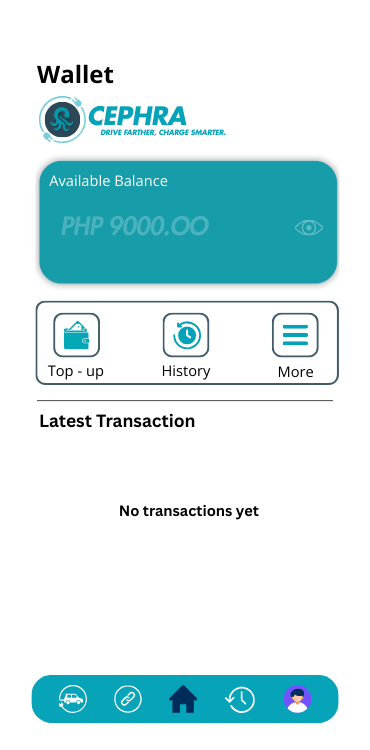
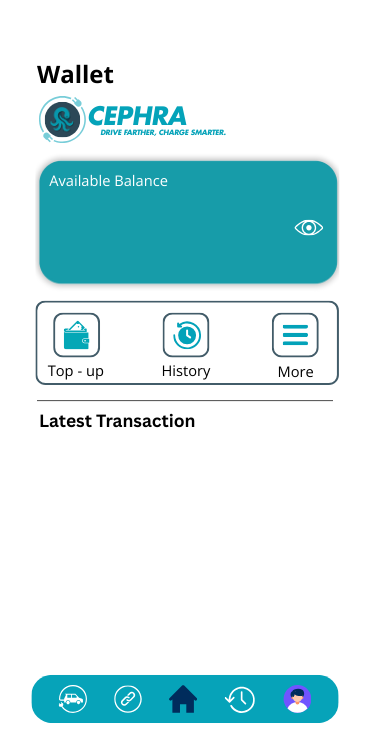
"Design"

Changed region(s): [[0.1486, 0.276, 0.5649, 0.3373], [0.327, 0.6747, 0.7135, 0.7053], [0.8027, 0.276, 0.8622, 0.3373]]

diff --git a/src/main/java/cephra/Phone/TopUppanel.java b/src/main/java/cephra/Phone/TopUppanel.java
@@ -1,6 +1,7 @@
 
 package cephra.Phone;
 
+import java.awt.Color;
 import javax.swing.*;
 import java.awt.event.ActionEvent;
 import java.awt.event.ActionListener;
@@ -8,7 +9,7 @@ import java.awt.event.ActionListener;
 public class TopUppanel extends javax.swing.JPanel {
 
     // Quick transaction amounts - updated to match the button values
-    private static final double[] QUICK_AMOUNTS = {500.0, 1000.0, 2500.0, 5000.0, 10000.0, 20000.0};
+    private static final double[] QUICK_AMOUNTS = {500.0, 1000.0, 1500.0, 2000.0, 3000.0, 5000.0};
 
     public TopUppanel() {
         initComponents();
@@ -17,6 +18,9 @@ public class TopUppanel extends javax.swing.JPanel {
         setupQuickAmountButtons();
         loadCurrentBalance();
         initializeCustomAmount();
+        
+        Customamount.setOpaque(false);
+        Customamount.setBackground(new Color(0, 0, 0, 0));  
     }
 
     // <editor-fold defaultstate="collapsed" desc="Generated Code">//GEN-BEGIN:initComponents
@@ -38,52 +42,73 @@ public class TopUppanel extends javax.swing.JPanel {
         jRadioButton3 = new javax.swing.JRadioButton();
         jRadioButton4 = new javax.swing.JRadioButton();
         bck = new javax.swing.JButton();
+        morePayMethod = new javax.swing.JButton();
+        topUpIcon = new javax.swing.JLabel();
 
         setLayout(null);
 
         jPanel1.setBackground(new java.awt.Color(255, 255, 255));
         jPanel1.setLayout(null);
 
+        Currentbalance.setFont(new java.awt.Font("Segoe UI Semibold", 1, 40)); // NOI18N
+        Currentbalance.setForeground(new java.awt.Color(255, 255, 255));
         Currentbalance.setText("xxxxxxx");
         jPanel1.add(Currentbalance);
-        Currentbalance.setBounds(120, 100, 70, 30);
+        Currentbalance.setBounds(80, 145, 240, 60);
 
-        A.setText("500");
+        A.setBorderPainted(false);
+        A.setContentAreaFilled(false);
         jPanel1.add(A);
-        A.setBounds(40, 190, 72, 23);
+        A.setBounds(40, 230, 75, 30);
 
-        B.setText("1000");
+        B.setBorderPainted(false);
+        B.setContentAreaFilled(false);
+        B.addActionListener(new java.awt.event.ActionListener() {
+            public void actionPerformed(java.awt.event.ActionEvent evt) {
+                BActionPerformed(evt);
+            }
+        });
         jPanel1.add(B);
-        B.setBounds(150, 190, 72, 23);
+        B.setBounds(150, 230, 75, 30);
 
-        C.setText("2500");
+        C.setBorderPainted(false);
+        C.setContentAreaFilled(false);
         jPanel1.add(C);
-        C.setBounds(260, 190, 72, 23);
+        C.setBounds(260, 230, 75, 30);
 
-        D.setText("5000");
+        D.setBorderPainted(false);
+        D.setContentAreaFilled(false);
         jPanel1.add(D);
-        D.setBounds(40, 260, 72, 23);
+        D.setBounds(40, 290, 75, 30);
 
-        E.setText("10000");
+        E.setBorderPainted(false);
+        E.setContentAreaFilled(false);
         jPanel1.add(E);
-        E.setBounds(150, 260, 72, 23);
+        E.setBounds(150, 290, 75, 30);
 
-        F.setText("20000");
+        F.setBorderPainted(false);
+        F.setContentAreaFilled(false);
         jPanel1.add(F);
-        F.setBounds(260, 260, 75, 23);
+        F.setBounds(260, 290, 75, 30);
 
-        Proceed.setText("Procceed");
+        Proceed.setBorderPainted(false);
+        Proceed.setContentAreaFilled(false);
         Proceed.addActionListener(new java.awt.event.ActionListener() {
             public void actionPerformed(java.awt.event.ActionEvent evt) {
                 ProceedActionPerformed(evt);
             }
         });
         jPanel1.add(Proceed);
-        Proceed.setBounds(80, 500, 190, 70);
+        Proceed.setBounds(20, 600, 330, 30);
 
-        Customamount.setText("xxxxxx");
+        Customamount.setBorder(null);
+        Customamount.addKeyListener(new java.awt.event.KeyAdapter() {
+            public void keyTyped(java.awt.event.KeyEvent evt) {
+                CustomamountKeyTyped(evt);
+            }
+        });
         jPanel1.add(Customamount);
-        Customamount.setBounds(110, 300, 130, 22);
+        Customamount.setBounds(70, 356, 255, 30);
 
         buttonGroup1.add(jRadioButton1);
         jRadioButton1.setText("Earnest Bank");
@@ -93,31 +118,45 @@ public class TopUppanel extends javax.swing.JPanel {
             }
         });
         jPanel1.add(jRadioButton1);
-        jRadioButton1.setBounds(140, 360, 90, 21);
+        jRadioButton1.setBounds(70, 390, 90, 21);
 
         buttonGroup1.add(jRadioButton2);
         jRadioButton2.setText("Glangs");
         jPanel1.add(jRadioButton2);
-        jRadioButton2.setBounds(140, 380, 90, 21);
+        jRadioButton2.setBounds(70, 430, 90, 21);
 
         buttonGroup1.add(jRadioButton3);
         jRadioButton3.setText("Exness");
         jPanel1.add(jRadioButton3);
-        jRadioButton3.setBounds(140, 420, 120, 21);
+        jRadioButton3.setBounds(70, 410, 120, 21);
 
         buttonGroup1.add(jRadioButton4);
         jRadioButton4.setText("Kalapati");
+        jRadioButton4.addActionListener(new java.awt.event.ActionListener() {
+            public void actionPerformed(java.awt.event.ActionEvent evt) {
+                jRadioButton4ActionPerformed(evt);
+            }
+        });
         jPanel1.add(jRadioButton4);
-        jRadioButton4.setBounds(140, 400, 100, 21);
+        jRadioButton4.setBounds(70, 450, 100, 21);
 
-        bck.setText("Back");
+        bck.setBorderPainted(false);
+        bck.setContentAreaFilled(false);
         bck.addActionListener(new java.awt.event.ActionListener() {
             public void actionPerformed(java.awt.event.ActionEvent evt) {
                 bckActionPerformed(evt);
             }
         });
         jPanel1.add(bck);
-        bck.setBounds(30, 40, 72, 23);
+        bck.setBounds(20, 33, 72, 30);
+
+        morePayMethod.setFont(new java.awt.Font("Segoe UI", 1, 24)); // NOI18N
+        jPanel1.add(morePayMethod);
+        morePayMethod.setBounds(290, 554, 40, 30);
+
+        topUpIcon.setIcon(new javax.swing.ImageIcon(getClass().getResource("/cephra/Cephra Images/topUpIcon.png"))); // NOI18N
+        jPanel1.add(topUpIcon);
+        topUpIcon.setBounds(0, 0, 360, 720);
 
         add(jPanel1);
         jPanel1.setBounds(0, 0, 360, 720);
@@ -147,6 +186,22 @@ public class TopUppanel extends javax.swing.JPanel {
             }
         });
     }//GEN-LAST:event_bckActionPerformed
+
+    private void jRadioButton4ActionPerformed(java.awt.event.ActionEvent evt) {//GEN-FIRST:event_jRadioButton4ActionPerformed
+        // TODO add your handling code here:
+    }//GEN-LAST:event_jRadioButton4ActionPerformed
+
+    private void BActionPerformed(java.awt.event.ActionEvent evt) {//GEN-FIRST:event_BActionPerformed
+        // TODO add your handling code here:
+    }//GEN-LAST:event_BActionPerformed
+
+    private void CustomamountKeyTyped(java.awt.event.KeyEvent evt) {//GEN-FIRST:event_CustomamountKeyTyped
+        char c = evt.getKeyChar();
+            if (!Character.isDigit(c) && c != '\b') {
+            java.awt.Toolkit.getDefaultToolkit().beep();
+            evt.consume(); // Ignore non-digit input
+}
+    }//GEN-LAST:event_CustomamountKeyTyped
 
     /**
      * Sets up the quick amount buttons with action listeners
@@ -371,5 +426,7 @@ public class TopUppanel extends javax.swing.JPanel {
     private javax.swing.JRadioButton jRadioButton2;
     private javax.swing.JRadioButton jRadioButton3;
     private javax.swing.JRadioButton jRadioButton4;
+    private javax.swing.JButton morePayMethod;
+    private javax.swing.JLabel topUpIcon;
     // End of variables declaration//GEN-END:variables
 }

diff --git a/src/main/java/cephra/Phone/Wallet.java b/src/main/java/cephra/Phone/Wallet.java
@@ -98,20 +98,25 @@ public class Wallet extends javax.swing.JPanel {
         add(charge);
         charge.setBounds(30, 680, 50, 40);
 
-        Balancetxt.setFont(new java.awt.Font("Segoe UI", 0, 18)); // NOI18N
+        Balancetxt.setFont(new java.awt.Font("Segoe UI Semibold", 1, 40)); // NOI18N
+        Balancetxt.setForeground(new java.awt.Color(255, 255, 255));
         Balancetxt.setText("1000.00");
         add(Balancetxt);
-        Balancetxt.setBounds(100, 200, 100, 40);
+        Balancetxt.setBounds(80, 200, 200, 60);
 
+        HideBalance.setBorderPainted(false);
+        HideBalance.setContentAreaFilled(false);
         HideBalance.addActionListener(new java.awt.event.ActionListener() {
             public void actionPerformed(java.awt.event.ActionEvent evt) {
                 HideBalanceActionPerformed(evt);
             }
         });
         add(HideBalance);
-        HideBalance.setBounds(270, 210, 70, 60);
+        HideBalance.setBounds(270, 190, 70, 60);
+
+        Latestranscat.setOpaque(false);
         add(Latestranscat);
-        Latestranscat.setBounds(50, 430, 290, 240);
+        Latestranscat.setBounds(40, 430, 300, 240);
 
         historybutton1.setBorder(null);
         historybutton1.setBorderPainted(false);
@@ -130,7 +135,7 @@ public class Wallet extends javax.swing.JPanel {
         jLabel1.setBounds(0, 0, 370, 750);
     }// </editor-fold>//GEN-END:initComponents
 
-    private void HideBalanceActionPerformed(java.awt.event.ActionEvent evt) {//GEN-FIRST:event_HideBalanceActionPerformed     
+    private void HideBalanceActionPerformed(java.awt.event.ActionEvent evt) {                                                 
         balanceHidden = !balanceHidden;
         updateBalanceDisplay();      
         if (balanceHidden) {
@@ -140,7 +145,7 @@ public class Wallet extends javax.swing.JPanel {
           //  HideBalance.setText("Hide");
                HideBalance.setIcon(new javax.swing.ImageIcon(getClass().getResource("/cephra/Cephra Images/EyeClose.png")));
         }
-    }//GEN-LAST:event_HideBalanceActionPerformed
+    }                                           
 
     private void loadWalletData() {
         try {
@@ -203,10 +208,12 @@ public class Wallet extends javax.swing.JPanel {
             javax.swing.JLabel noTransactionsLabel = new javax.swing.JLabel("No recent transactions");
             noTransactionsLabel.setFont(new java.awt.Font("Segoe UI", 0, 12));
             noTransactionsLabel.setForeground(java.awt.Color.GRAY);
+            noTransactionsLabel.setHorizontalAlignment(javax.swing.SwingConstants.CENTER);
          //  noTransactionsLabel.setAlignmentX(javax.swing.CENTER_ALIGNMENT);
-            Latestranscat.add(javax.swing.Box.createVerticalGlue());
-            Latestranscat.add(noTransactionsLabel);
-            Latestranscat.add(javax.swing.Box.createVerticalGlue());
+            Latestranscat.setLayout(new java.awt.BorderLayout());
+            Latestranscat.add(javax.swing.Box.createVerticalGlue(), java.awt.BorderLayout.NORTH);
+            Latestranscat.add(noTransactionsLabel, java.awt.BorderLayout.CENTER);
+            Latestranscat.add(javax.swing.Box.createVerticalGlue(), java.awt.BorderLayout.SOUTH);
         } else {
             // Add title
            

diff --git a/src/main/java/cephra/Admin/AdminRegister.java b/src/main/java/cephra/Admin/AdminRegister.java
@@ -10,8 +10,10 @@ public class AdminRegister extends javax.swing.JPanel {
         initComponents();
         setPreferredSize(new java.awt.Dimension(1000, 750));
         setSize(1000, 750);
+        
         Firstname.setOpaque(false);
-        Firstname.setBackground(new Color(0, 0, 0, 0));  LastName.setOpaque(false);
+        Firstname.setBackground(new Color(0, 0, 0, 0));  
+        LastName.setOpaque(false);
         LastName.setBackground(new Color(0, 0, 0, 0));
         email.setOpaque(false);
         email.setBackground(new Color(0, 0, 0, 0));
